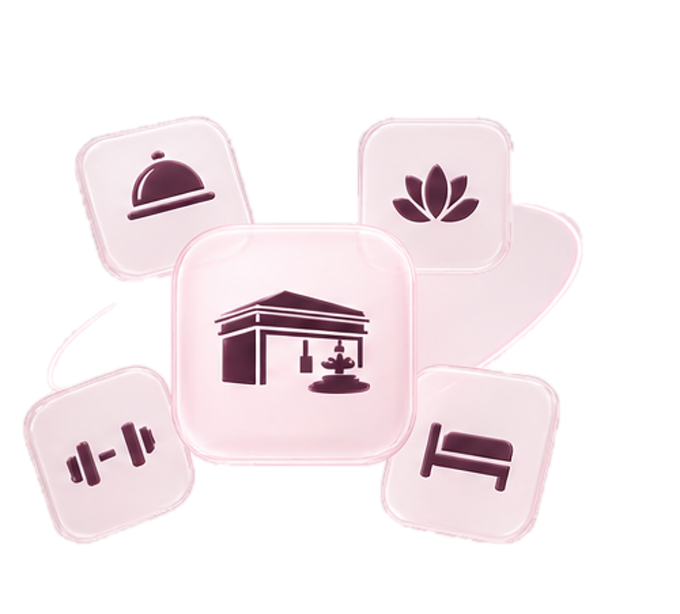
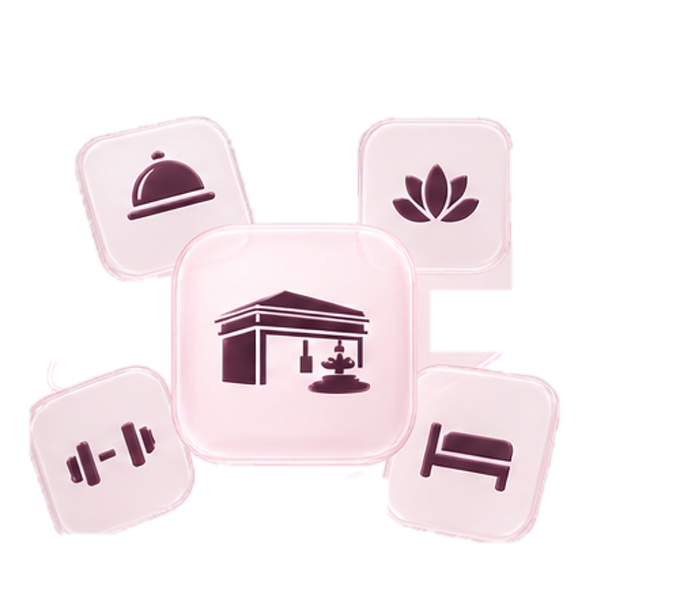
feat: cut the ribbon out of the mark, drop the badge, add the missing amenities
The orbit ribbon had to go by hand in the end, and the route there is worth
recording because three plausible rules all failed. Morphological opening
cannot separate it from the tiles: the tiles overlap each other by about as
much as the ribbon is thick, so no radius splits one without destroying the
other. Size cannot either -- the gym tile's eroded core came out at 6,260
pixels against the ribbon's, and picking the largest blob silently deleted
the gym. Nor could "a tile contains a dark glyph", because the blob holding
the ribbon had a tile fused to it and so passed the test. The tiles are five
rectangles in a fixed render, so they are written down. The script is kept
at docs/unlocked-glass-key.py rather than thrown away, since the asset
cannot be regenerated from the PNG alone.

The Experiment badge is gone. The flow is being judged as the app, and a
label saying otherwise sat in every screenshot of it; the flow switcher in
the prototype controls already names the flow, for the one person who needs
to know.

And the catalogue had a personal trainer but no gym -- the thing a guest
actually asks about -- and no pool, in a property whose own photograph is of
one. Added as facilities rather than as people to book: the fitness centre,
the pool and sun deck, a sauna, a kids club and a business centre. Spa &
Wellness goes from 8 to 11, Hotel Services from 11 to 13, counted rather
than written down as they always were. The success screen lists the pool and
[…]

diff --git a/src/components/features/guest-app/prototype-model.ts b/src/components/features/guest-app/prototype-model.ts
@@ -2743,6 +2743,14 @@ export const SERVICES = [
   { id: 'laundry', name: 'Express laundry & pressing', category: 'Hotel services', categoryId: 'services', operator: 'Hotel operated', price: 'From ₱250', cutoff: 'Same-day service', tone: 'blue' },
   { id: 'luggage', name: 'Luggage storage & delivery', category: 'Hotel services', categoryId: 'services', operator: 'Hotel operated', price: 'Complimentary', cutoff: 'Same-day service', tone: 'blue' },
   { id: 'celebration', name: 'Flowers & celebration setup', category: 'Hotel services', categoryId: 'services', operator: 'Curated guide', price: 'From ₱1,600', cutoff: '24-hour cancellation cutoff', tone: 'blue' },
+  /* Facilities, as distinct from the people you book. The catalogue had a
+     personal trainer but no gym, which is the thing a guest actually asks
+     about -- and no pool, in a property whose own photograph is of one. */
+  { id: 'gym', name: '24-hour fitness centre', category: 'Fitness', categoryId: 'spa', operator: 'Hotel operated', price: 'Complimentary', cutoff: 'Open 24 hours', tone: 'sage' },
+  { id: 'pool', name: 'Swimming pool & sun deck', category: 'Pool & sun deck', categoryId: 'spa', operator: 'Hotel operated', price: 'Complimentary', cutoff: '6:00 AM – 10:00 PM', tone: 'sage' },
+  { id: 'sauna', name: 'Sauna & steam room', category: 'Spa & massage', categoryId: 'spa', operator: 'Third-party on property', price: '₱900', cutoff: '2-hour cancellation cutoff', tone: 'sage' },
+  { id: 'kids-club', name: 'Kids club & play room', category: 'Family', categoryId: 'services', operator: 'Hotel operated', price: 'Complimentary', cutoff: '9:00 AM – 6:00 PM', tone: 'sand' },
+  { id: 'business-centre', name: 'Business centre & printing', category: 'Work', categoryId: 'services', operator: 'Hotel operated', price: 'Complimentary', cutoff: 'Open 24 hours', tone: 'sand' },
   { id: 'trainer', name: 'Personal training session', category: 'Fitness & wellness', categoryId: 'services', operator: 'Hotel operated', price: '₱1,400', cutoff: '2-hour cancellation cutoff', tone: 'blue' },
   { id: 'babysitting', name: 'Babysitting & childcare', category: 'Family services', categoryId: 'services', operator: 'Third-party on property', price: '₱600 / hour', cutoff: '24-hour cancellation cutoff', tone: 'blue' },
   { id: 'meeting-room', name: 'Meeting room hire', category: 'Business services', categoryId: 'services', operator: 'Hotel operated', price: '₱2,500 / half day', cutoff: '24-hour cancellation cutoff', tone: 'blue' },

diff --git a/src/components/features/guest-app/experiments/room-unlocked.tsx b/src/components/features/guest-app/experiments/room-unlocked.tsx
@@ -1,6 +1,6 @@
 'use client';
 
-import { ArrowRight, House, Receipt } from '@phosphor-icons/react';
+import { ArrowRight, Barbell, House, Receipt } from '@phosphor-icons/react';
 import Image from 'next/image';
 import type { ReactNode } from 'react';
 import { Button } from '@/components/ui';
@@ -67,6 +67,11 @@ const OPEN_NOW: Array<{
 }> = [
   { label: 'Dining', detail: 'Room service or downstairs', art: { photo: 'dining' } },
   { label: 'Spa & tours', detail: 'Book a time today', art: { photo: 'spa' } },
+  /* The mark above this list has a dumbbell in it and the list did not
+     mention a gym, which is the sort of gap a guest notices before anyone
+     else does. The pool is real -- the property's own photograph is of it. */
+  { label: 'Pool & sun deck', detail: 'Open until 10:00 PM', art: { photo: 'pool' } },
+  { label: 'Fitness centre', detail: 'Open 24 hours', art: { icon: <Barbell aria-hidden="true" /> } },
   { label: 'Charge to room', detail: 'Settles at checkout', art: { icon: <Receipt aria-hidden="true" /> } },
   { label: 'Room services', detail: 'Housekeeping and requests', art: { icon: <House aria-hidden="true" /> } },
 ];

diff --git a/src/components/features/guest-app/experiments/service-venues.ts b/src/components/features/guest-app/experiments/service-venues.ts
@@ -44,7 +44,7 @@ export const SERVICE_VENUES: ServiceVenue[] = [
     name: 'Hilom Spa & Wellness',
     location: 'Fourth floor, east wing',
     kind: 'venue',
-    operates: ['spa', 'scrub', 'hot-stone', 'couples-massage', 'facial'],
+    operates: ['spa', 'scrub', 'hot-stone', 'couples-massage', 'facial', 'sauna'],
     image: storyImage('spa'),
   },
   {
@@ -84,7 +84,7 @@ export const SERVICE_VENUES: ServiceVenue[] = [
     name: 'Bantay Care',
     location: 'On call, through the desk',
     kind: 'venue',
-    operates: ['babysitting', 'doctor'],
+    operates: ['babysitting', 'doctor', 'kids-club'],
     image: PROPERTY_IMAGE,
   },
   {
@@ -110,7 +110,7 @@ export const SERVICE_VENUES: ServiceVenue[] = [
     operates: [
       'reflexology', 'cooking-class', 'music', 'film-night',
       'transfer', 'private-car', 'rental', 'laundry', 'luggage',
-      'trainer', 'meeting-room',
+      'trainer', 'meeting-room', 'gym', 'pool', 'business-centre',
     ],
     image: PROPERTY_IMAGE,
   },

diff --git a/src/components/features/guest-app/guest-app-prototype.tsx b/src/components/features/guest-app/guest-app-prototype.tsx
@@ -3658,9 +3658,11 @@ export function GuestAppPrototype({ initialSession, initialScreen, initialOnline
                   <span className="guest-brand"><CabanaLockup className="guest-brand__lockup" /><span className="sr-only">Cabana</span></span>
                 </div>
                 <div className="guest-appbar__center" />
-                <div className="guest-appbar__side guest-appbar__side--end">
-                  <span className="guest-experiment-badge">Experiment</span>
-                </div>
+                {/* No Experiment badge. The flow is being judged as the app,
+                    and a label saying otherwise sits in every screenshot of
+                    it. The switcher in the prototype controls already says
+                    which flow is running, to the only person who needs it. */}
+                <div className="guest-appbar__side guest-appbar__side--end" />
               </header>
             ) : null}
 

diff --git a/src/components/features/guest-app/experiments/story-imagery.ts b/src/components/features/guest-app/experiments/story-imagery.ts
@@ -39,8 +39,12 @@ export const STORY_IMAGERY: Record<string, ServiceImageDefinition> = {
   rooftop: shot('photo-1613066697157-e8345495b665', 'Rooftop terrace at dusk'),
   dining: shot('photo-1551632436-cbf8dd35adfa', 'Plated dish'),
 
-  // Spa
+  // Spa and the facilities beside it
   spa: shot('photo-1544161515-4ab6ce6db874', 'Massage treatment'),
+  /* The property shot is of its own pool, so this one is the real thing
+     rather than a stand-in. */
+  pool: shot('photo-1566073771259-6a8506099945', 'The pool at dusk'),
+  sauna: shot('photo-1600334129128-685c5582fd35', 'Treatment room'),
   scrub: shot('photo-1600334129128-685c5582fd35', 'Spa treatment room'),
   'hot-stone': shot('photo-1591343395082-e120087004b4', 'Hot stone therapy'),
   'couples-massage': shot('photo-1639162906614-0603b0ae95fd', 'Spa suite'),

diff --git a/src/components/features/guest-app/experiments/experiments.css b/src/components/features/guest-app/experiments/experiments.css
@@ -6,16 +6,6 @@
    is a file move rather than an archaeology exercise through 4,000 lines.
    -------------------------------------------------------------------------- */
 
-.guest-experiment-badge {
-  padding: 4px 10px;
-  border-radius: var(--radius-pill);
-  background: var(--guest-accent-soft, var(--guest-soft));
-  color: var(--guest-accent-strong);
-  font-size: 11px;
-  font-weight: 700;
-  letter-spacing: 0.04em;
-  text-transform: uppercase;
-}
 
 /* --------------------------------------------------------------------------
    Scan intro

diff --git a/docs/unlocked-glass-key.py b/docs/unlocked-glass-key.py
@@ -1,0 +1,86 @@
+import sys
+from collections import deque
+
+W, H = 680, 614
+TOL = 4
+R = int(sys.argv[1]) if len(sys.argv) > 1 else 18   # erosion radius, in pixels
+src = bytearray(open('cell.raw', 'rb').read())
+
+def px(i):
+    o = i * 3
+    return src[o], src[o+1], src[o+2]
+
+# 1. key the ground out, exactly as before
+bg = bytearray(W * H); q = deque()
+for x in range(W):
+    for y in (0, H-1):
+        i = y*W + x
+        if not bg[i]: bg[i] = 1; q.append(i)
+for y in range(H):
+    for x in (0, W-1):
+        i = y*W + x
+        if not bg[i]: bg[i] = 1; q.append(i)
+t2 = TOL*TOL
+while q:
+    i = q.popleft(); r0, g0, b0 = px(i); x, y = i % W, i // W
+    for nx, ny in ((x-1,y),(x+1,y),(x,y-1),(x,y+1)):
+        if nx < 0 or ny < 0 or nx >= W or ny >= H: continue
+        j = ny*W + nx
+        if bg[j]: continue
+        r1, g1, b1 = px(j); dr, dg, db = r1-r0, g1-g0, b1-b0
+        if dr*dr + dg*dg + db*db <= t2:
+            bg[j] = 1; q.append(j)
+mask = bytearray(0 if bg[i] else 1 for i in range(W*H))
+
+# 2. Keep what falls inside the five tiles, and nothing else.
+#
+#    Inference was the wrong tool here and cost several passes. Opening cannot
+#    separate the ribbon from the tiles because the tiles overlap each other by
+#    about as much as the ribbon is thick; size cannot either -- the gym tile's
+#    eroded core and the ribbon's land within a couple of thousand pixels; and
+#    the glyph test fails because the ribbon blob had a tile fused to it. The
+#    tiles are five rectangles in a fixed render, so they are written down.
+TILES = [
+    (72, 108, 258, 292),    # cloche
+    (350, 106, 512, 290),   # lotus -- right edge pulled in off a ribbon nub
+    (164, 220, 430, 478),   # the property, centre
+    (30, 362, 196, 534),    # dumbbell -- top-left corner clear of a ribbon hook
+    (388, 352, 582, 542),   # bed
+]
+
+inside = bytearray(W * H)
+for (x0, y0, x1, y1) in TILES:
+    for y in range(max(0, y0), min(H, y1)):
+        base = y * W
+        for x in range(max(0, x0), min(W, x1)):
+            inside[base + x] = 1
+
+final = bytearray(255 if (mask[i] and inside[i]) else 0 for i in range(W * H))
+
+def blur(a):
+    out = bytearray(W*H)
+    for y in range(H):
+        base = y*W
+        for x in range(W):
+            s = c = 0
+            for dx in (-1,0,1):
+                nx = x+dx
+                if 0 <= nx < W: s += a[base+nx]; c += 1
+            out[base+x] = s//c
+    fin = bytearray(W*H)
+    for x in range(W):
+        for y in range(H):
+            s = c = 0
+            for dy in (-1,0,1):
+                ny = y+dy
+                if 0 <= ny < H: s += out[ny*W+x]; c += 1
+            fin[y*W+x] = s//c
+    return fin
+final = blur(blur(final))
+
+out = bytearray(W*H*4)
+for i in range(W*H):
+    o3, o4 = i*3, i*4
+    out[o4] = src[o3]; out[o4+1] = src[o3+1]; out[o4+2] = src[o3+2]; out[o4+3] = final[i]
+open('cell.rgba','wb').write(bytes(out))
+print('kept', sum(1 for i in range(W*H) if final[i] > 8)*100//(W*H), '% of frame')
